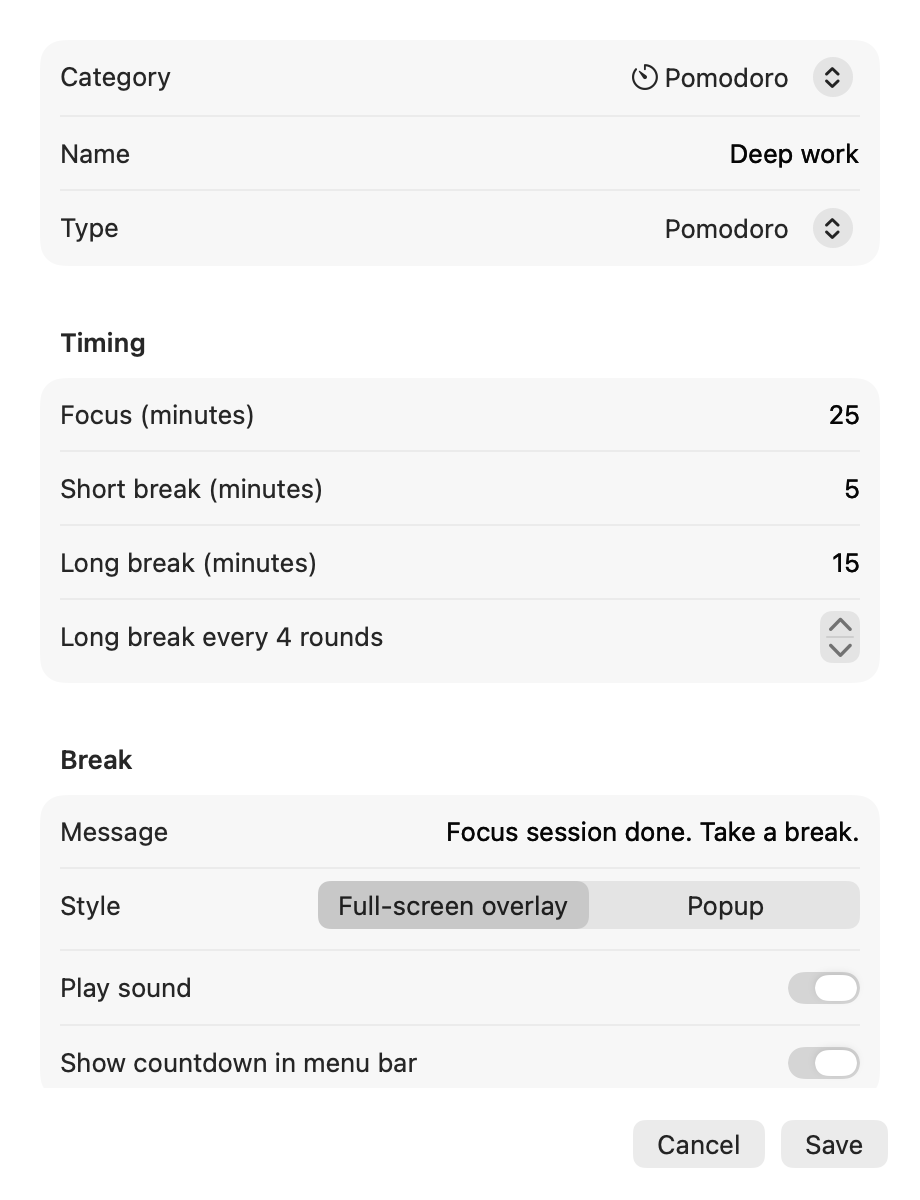
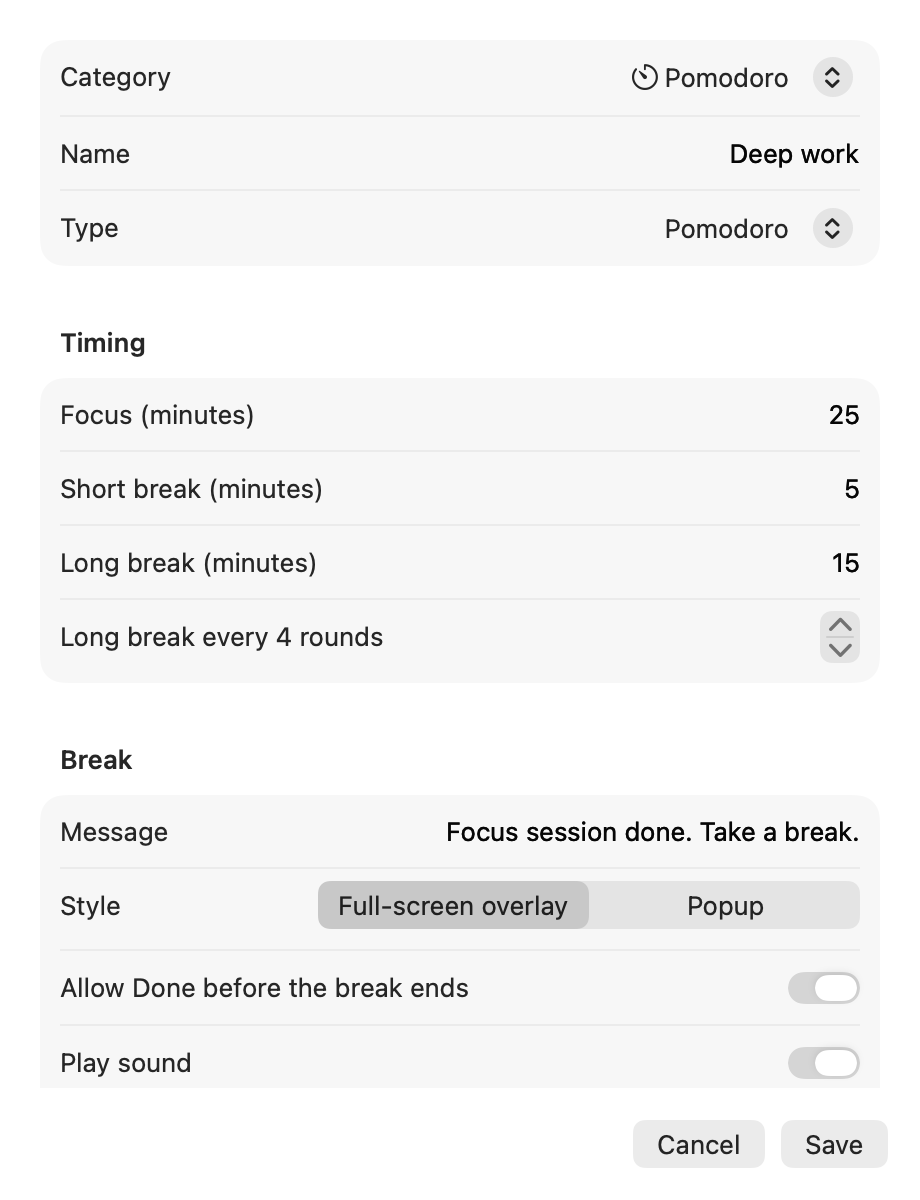
feat: add an in-app Guide tab and refresh README docs and screenshots

Changed region(s): [[0.0609, 0.8017, 0.5174, 0.8325], [0.0609, 0.8633, 0.4565, 0.8942]]

diff --git a/App/GuideTab.swift b/App/GuideTab.swift
@@ -1,0 +1,64 @@
+import SwiftUI
+
+/// In-app explanation of how timers and breaks behave.
+struct GuideTab: View {
+    private struct Topic: Identifiable {
+        let symbol: String
+        let title: String
+        let text: String
+        var id: String { title }
+    }
+
+    private let topics = [
+        Topic(symbol: "eye", title: "The 20-20-20 rule",
+              text: "Every 20 minutes, look at something 20 feet (6 m) away for 20 seconds. The Eyes timer does this for you."),
+        Topic(symbol: "square.grid.2x2", title: "Timers and categories",
+              text: "Add as many timers as you like. Pick a category (Eyes, Posture, Water, Stretch, Pomodoro, Countdown, Scheduled, Custom, or your own) and it fills in sensible defaults that you can change."),
+        Topic(symbol: "timer", title: "Timer types",
+              text: "Repeating rings every N minutes. Pomodoro alternates focus and breaks, with a long break every few rounds. Countdown rings once, then switches off. Scheduled rings at fixed clock times."),
+        Topic(symbol: "rectangle.inset.filled", title: "Breaks",
+              text: "A break is either a full-screen overlay on every display or a small popup. It ends by itself when its countdown finishes. Done ends it early and counts it as taken (only if \"Allow Done\" is on for that timer). Skip counts it as skipped. Snooze brings it back in a few minutes."),
+        Topic(symbol: "pencil", title: "Editing a timer",
+              text: "Changing the type, interval or clock times restarts the countdown. Any other change, like the message, style or Allow Done, keeps it running."),
+        Topic(symbol: "moon.zzz", title: "When you're away",
+              text: "If you're idle, the screen is locked or the Mac sleeps, timers wait. Repeating timers start over when you come back, because you already rested."),
+        Topic(symbol: "video", title: "During calls",
+              text: "While your camera or microphone is in use, a due break waits until the call ends. Fullscreen apps don't hold breaks back."),
+        Topic(symbol: "calendar.badge.clock", title: "Active hours",
+              text: "A timer can be limited to certain days and hours, for example Monday to Friday, 9:00 to 18:00. Outside them it stays quiet."),
+        Topic(symbol: "pause.circle", title: "Pausing",
+              text: "Pause one timer from the menu, or pause all of them for 30 minutes, 1 hour, until tomorrow, or until you resume. \(HotKey.display) pauses and resumes everything."),
+        Topic(symbol: "menubar.rectangle", title: "Menu bar and widget",
+              text: "The menu bar shows the soonest timer that has \"Show countdown in menu bar\" on. The widget (right-click the desktop → Edit Widgets) shows the next three."),
+        Topic(symbol: "chart.bar", title: "Stats",
+              text: "Counts breaks taken, skipped and snoozed per day. The streak counts days with at least one break taken and none skipped."),
+    ]
+
+    var body: some View {
+        ScrollView {
+            VStack(alignment: .leading, spacing: 14) {
+                ForEach(topics) { t in
+                    HStack(alignment: .top, spacing: 12) {
+                        Image(systemName: t.symbol)
+                            .font(.title3)
+                            .foregroundStyle(.tint)
+                            .frame(width: 28)
+                        VStack(alignment: .leading, spacing: 3) {
+                            Text(t.title).font(.headline)
+                            Text(t.text).foregroundStyle(.secondary).fixedSize(horizontal: false, vertical: true)
+                        }
+                    }
+                }
+                Divider()
+                HStack {
+                    Text("Chilly Eye \(Bundle.main.object(forInfoDictionaryKey: "CFBundleShortVersionString") as? String ?? "")")
+                        .foregroundStyle(.secondary)
+                    Spacer()
+                    Link("Website", destination: URL(string: "https://github.com/ieCecchetti/20-eyes")!)
+                    Link("Report a problem", destination: URL(string: "https://github.com/ieCecchetti/20-eyes/issues/new")!)
+                }
+            }
+            .padding()
+        }
+    }
+}

diff --git a/scripts/Screenshots.swift b/scripts/Screenshots.swift
@@ -28,6 +28,7 @@ struct Screenshots {
                       snoozeMinutes: 5, overlay: true, finish: { _ in })
                 .opacity(0.6) // offscreen the blur has no desktop behind it; let the wallpaper show through
         }.frame(width: 1280, height: 760), to: out, "overlay.png")
+        render(GuideTab().frame(width: 620, height: 850).background(panel(12)), to: out, "guide.png")
         var draft = BreakTimer(category: state.categories[4])
         draft.name = "Deep work"
         render(TimerForm(timer: draft, onSave: { _ in }).environment(engine).background(panel(12)), to: out, "new-timer.png")

diff --git a/App/SettingsView.swift b/App/SettingsView.swift
@@ -9,6 +9,7 @@ struct SettingsView: View {
             CategoriesTab().tabItem { Label("Categories", systemImage: "square.grid.2x2") }
             GeneralTab().tabItem { Label("General", systemImage: "gearshape") }
             StatsTab().tabItem { Label("Stats", systemImage: "chart.bar") }
+            GuideTab().tabItem { Label("Guide", systemImage: "info.circle") }
         }
         .frame(width: 620, height: 480)
         .onAppear { NSApp.activate(ignoringOtherApps: true) }

diff --git a/README.md b/README.md
@@ -42,15 +42,24 @@
 - **Menu bar countdown** for the soonest timer you've pinned ("Show countdown in menu bar" on each timer). Click it to see every timer, sorted by which rings next, with pause / take break now on each.
 - **Many timers, grouped by category.** New timer → pick a category (Eyes, Posture, Water, Stretch, Pomodoro, Countdown, Scheduled, Custom, or your own) → it pre-fills sensible defaults → tweak.
 - **Timer types:** repeating, pomodoro (long break every N rounds), one-shot countdown, scheduled at clock times.
-- **Break style per timer:** full-screen blurred overlay on every display, or a small popup. Skip, snooze, or the break ends by itself when its countdown finishes.
+- **Break style per timer:** full-screen blurred overlay on every display, or a small popup. The break ends by itself when its countdown finishes. You can also:
+  - **Done:** end it early, and it still counts as taken. Shown only if the timer has *Allow Done* on, so you can make a break strict.
+  - **Skip:** counts as skipped.
+  - **Snooze:** brings it back a few minutes later.
 - **Active hours per timer**, for example Mon–Fri 9:00–18:00.
 - **Smart pausing:**
   - when you're idle, the screen is locked or the Mac sleeps, timers are held, and repeating timers restart when you return (you already rested)
-  - breaks are postponed during calls (camera or mic in use) and while a fullscreen app is in front
+  - breaks wait while you're in a call (camera or mic in use). Fullscreen apps, like an editor, do **not** hold breaks back.
 - **Pause all** for 30 min, 1 h, until tomorrow, or until resumed. Global shortcut **⌃⌥⌘P**.
 - **Stats:** breaks taken / skipped / snoozed per day, and a day streak.
 - **Widget** (medium): the next 3 timers with live countdowns.
 - **Launch at login.**
+- **Editing keeps your countdown:** only changing the type, interval or clock times restarts a timer.
+- **Built-in guide:** Settings → Guide explains all of this inside the app.
+
+<p align="center">
+  <img src="docs/images/guide.png" width="520" alt="The in-app Guide tab">
+</p>
 
 ## Requirements
 
